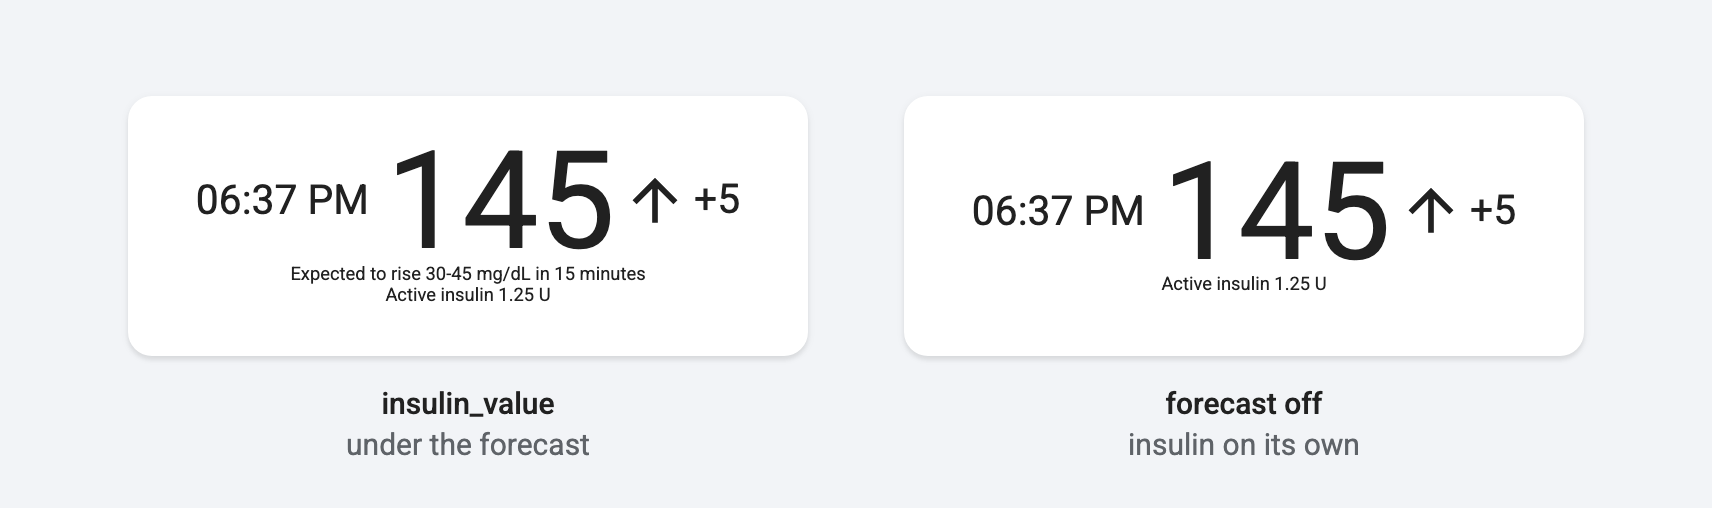
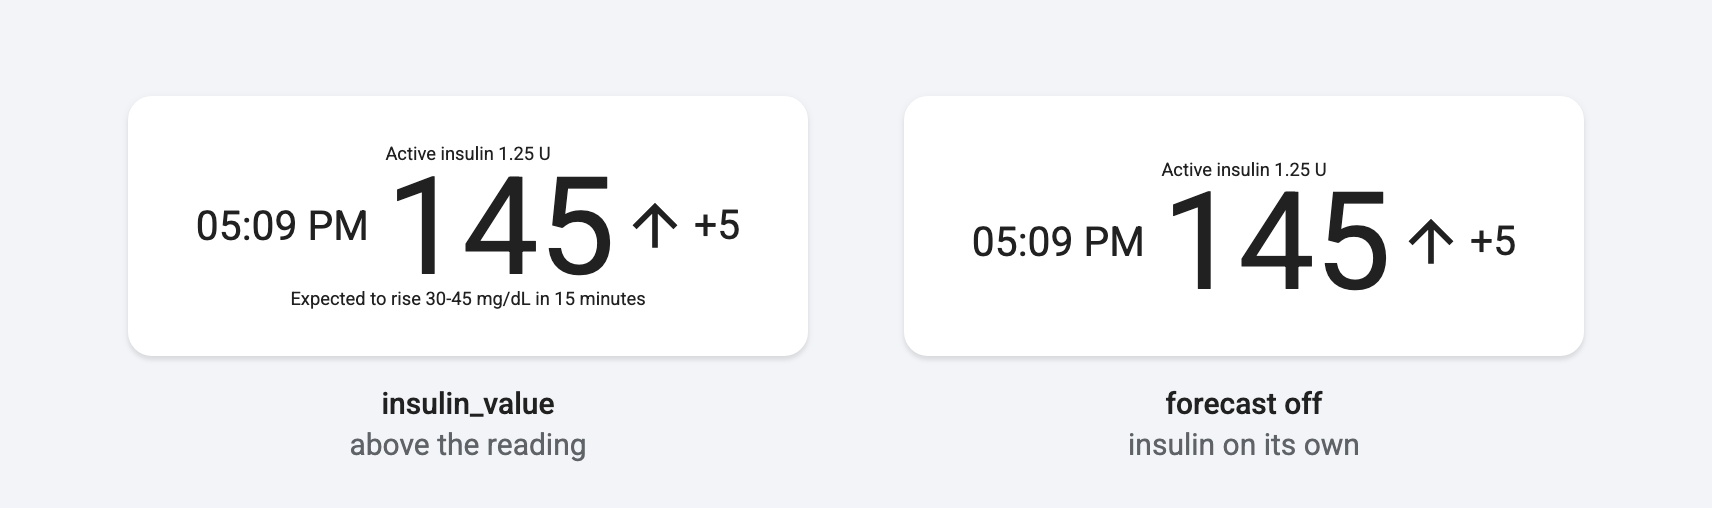
v0.17.0: move the active insulin line above the reading
Insulin is status rather than projection: what is on board now sits ahead
of the number the way the time does, while the delta and forecast stay
under it. No config change; the lone footnotes wrapper from v0.16.0 is
gone with the forecast back in its own shape.

Changed region(s): [[0.0929, 0.2953, 0.4334, 0.6201], [0.5572, 0.2953, 0.8978, 0.5906], [0.1857, 0.8563, 0.3405, 0.9154]]

diff --git a/src/sugartv-card-styles.js b/src/sugartv-card-styles.js
@@ -3,12 +3,13 @@ import { css } from 'lit';
 /*
  * Layout
  * ------
- * One markup, two orientations. The container holds the time, the value, a
- * .tail carrying the trend and delta, and the footnotes (the forecast line
- * and, when configured, active insulin). Wide boxes lay them out as a row
- * with the footnotes wrapped onto their own block; tall and square boxes stack
- * them into a column. Nothing here is configurable: the card reads the shape
- * it was given and picks the orientation that fills it.
+ * One markup, two orientations. The container holds, from the top: the
+ * active insulin line (when configured), the time, the value, a .tail carrying
+ * the trend and delta, and the forecast line under the reading. Wide boxes lay
+ * the reading out as a row with the forecast wrapped onto its own line; tall
+ * and square boxes stack them into a column. Nothing here is configurable:
+ * the card reads the shape it was given and picks the orientation that fills
+ * it.
  *
  * Optical geometry
  * ----------------
@@ -204,30 +205,12 @@ export const cardStyles = css`
     }
 
     /*
-     * The lines under the reading: the forecast and, when configured, the
-     * active insulin. One block with a rhythm of its own, tighter than the
-     * container's gap, because two lines at the container's gap read as two
-     * separate announcements while these are one level of detail -- the same
-     * licence the stacked trend and delta take in the column layout.
-     *
-     * The block carries the descent clearance, not the forecast line itself,
-     * so whichever line lands directly under the reading clears its
-     * descender: with insulin configured and the forecast off, the insulin
-     * line is the one sitting under the number. The clearance itself is
-     * measured from the rendered glyphs: .value is trimmed to the alphabetic
-     * baseline so its box ends where the digits do, but a decimal comma hangs
-     * below that and would otherwise print on this line. --value-descent is
-     * zero whenever the reading has no descender, which is every mg/dL card.
+     * The forecast, under the reading. The descent clearance is measured
+     * from the rendered glyphs: .value is trimmed to the alphabetic baseline
+     * so its box ends where the digits do, but a decimal comma hangs below
+     * that and would otherwise print on this line. --value-descent is zero
+     * whenever the reading has no descender, which is every mg/dL card.
      */
-    .footnotes {
-        display: flex;
-        flex-direction: column;
-        align-items: center;
-        gap: calc(1.2 * var(--u));
-        margin-top: calc(var(--value-descent, 0) * var(--u));
-        max-width: 100%;
-    }
-
     /*
      * No opacity of its own, deliberately. It used to carry 0.7 to read as
      * secondary, but font size already says that -- 2.7u against the reading's
@@ -237,7 +220,20 @@ export const cardStyles = css`
      * zones it fell to 2.6:1 even on a current reading. Hierarchy by size,
      * contrast left alone.
      */
-    .prediction,
+    .prediction {
+        font-size: calc(2.7 * var(--u));
+        margin-top: calc(var(--value-descent, 0) * var(--u));
+        max-width: 100%;
+        text-align: center;
+    }
+
+    /*
+     * Active insulin, above the reading. Above, not under the forecast,
+     * because it is status rather than projection: what is on board now,
+     * ahead of the number the way the time is, while everything derived from
+     * the trend (delta, forecast) stays below it. Same size as the forecast,
+     * and like it, no colour and no opacity of its own.
+     */
     .insulin {
         font-size: calc(2.7 * var(--u));
         max-width: 100%;

diff --git a/src/sugartv-card.js b/src/sugartv-card.js
@@ -898,11 +898,11 @@ class SugarTvCard extends LitElement {
     }
 
     /*
-     * The line under the forecast: "Active insulin 1.25 U", phrased by the
-     * same translation table as the forecast above it. Two decimals fixed, so
-     * the line holds a steady width across readings the way the reading does;
-     * insulin doses move in halves and quarters and a whole unit would hide
-     * exactly the detail the line exists to show.
+     * The line above the reading: "Active insulin 1.25 U", phrased by the
+     * same translation table as the forecast. Two decimals fixed, so the line
+     * holds a steady width across readings the way the reading does; insulin
+     * doses move in halves and quarters and a whole unit would hide exactly
+     * the detail the line exists to show.
      */
     _insulinText() {
         const { insulin } = this._data;
@@ -1664,6 +1664,11 @@ class SugarTvCard extends LitElement {
                 aria-label="${ariaLabel}"
             >
                 <div class="container">
+                    ${
+                        insulin
+                            ? html`<div class="insulin">${insulin}</div>`
+                            : ''
+                    }
                     <div class="line">
                         <div class="time">
                             ${this._formatTime(reading_time)}
@@ -1684,28 +1689,9 @@ class SugarTvCard extends LitElement {
                         </div>
                     </div>
                     ${
-                        insulin || (showPrediction && prediction)
+                        showPrediction && prediction
                             ? html`
-                                  <div class="footnotes">
-                                      ${
-                                          showPrediction && prediction
-                                              ? html`
-                                                    <div class="prediction">
-                                                        ${prediction}
-                                                    </div>
-                                                `
-                                              : ''
-                                      }
-                                      ${
-                                          insulin
-                                              ? html`
-                                                    <div class="insulin">
-                                                        ${insulin}
-                                                    </div>
-                                                `
-                                              : ''
-                                      }
-                                  </div>
+                                  <div class="prediction">${prediction}</div>
                               `
                             : ''
                     }

diff --git a/test/sugartv-card.test.js b/test/sugartv-card.test.js
@@ -1896,7 +1896,7 @@ describe('SugarTvCard', () => {
 
     // ── _formatValue ────────────────────────────────────────────────
     /*
-     * Active insulin (#109): an optional entity, a line under the forecast,
+     * Active insulin (#109): an optional entity, a line above the reading,
      * and nothing at all when the entity is absent or unreadable. The card
      * never guesses at an insulin entity, so every "hidden" case below is the
      * same code path a user without a pump takes.
@@ -2006,7 +2006,7 @@ describe('SugarTvCard', () => {
             expect(card._insulinText()).toBe('Active insulin -0.35 U');
         });
 
-        it('draws the line under the forecast, inside one footnotes block', () => {
+        it('draws the line above the reading, the forecast below it', () => {
             const card = insulinCard(
                 {},
                 '1.25',
@@ -2026,22 +2026,25 @@ describe('SugarTvCard', () => {
             card._updateData();
             const markup = card.render();
 
-            expect(markup).toContain('class="footnotes"');
+            // Above the reading line, not inside anything under it.
+            expect(markup.indexOf('class="insulin"')).toBeLessThan(
+                markup.indexOf('class="line"'),
+            );
             expect(markup).toContain('class="prediction"');
-            expect(markup).toContain('class="insulin"');
-            expect(markup.indexOf('prediction')).toBeLessThan(
-                markup.indexOf('insulin"'),
+            expect(markup.indexOf('class="line"')).toBeLessThan(
+                markup.indexOf('class="prediction"'),
             );
         });
 
-        it('draws no footnotes block when there is nothing under the reading', () => {
+        it('draws nothing under the reading when the forecast is off', () => {
             const card = insulinCard(
                 { insulin_value: undefined, show_prediction: false },
                 '1.25',
             );
             const markup = card.render();
 
-            expect(markup).not.toContain('footnotes');
+            expect(markup).not.toContain('class="prediction"');
+            expect(markup).not.toContain('class="insulin"');
         });
 
         it('announces the line to the screen reader', () => {

diff --git a/test/styles.test.js b/test/styles.test.js
@@ -112,9 +112,9 @@ describe('the age fade in the stylesheet', () => {
      * fades twice on a stale card. The forecast line used to carry 0.7, which
      * put it at 2.1:1 there -- below every threshold at any size. Hierarchy on
      * that line is font size now, and this pins it: re-adding an opacity here
-     * would silently reintroduce the compounding. The insulin line and the
-     * footnotes block that wraps them sit on the same spot of the card and
-     * would compound just the same, so they are held to the identical rule.
+     * would silently reintroduce the compounding. The insulin line sits above
+     * the reading and the forecast below it, but both are secondary lines that
+     * would compound just the same, so both are held to the identical rule.
      */
     it('leaves the secondary lines without an opacity to compound', () => {
         /*

diff --git a/demo/shot.html b/demo/shot.html
@@ -101,7 +101,7 @@
              *   rel    1 to show the age in place of the clock (relative_time)
              *   dim    1 to enable dim_by_age
              *   pred   0 to drop the forecast line
-             *   iob    units of active insulin to show under the forecast
+             *   iob    units of active insulin to show above the reading
              *          (omitted: no insulin entity, no line)
              *   loc    the card's locale (default en-US)
              *   label  caption under the card; <b> is allowed

diff --git a/demo/shots.py b/demo/shots.py
@@ -135,7 +135,7 @@ FIGURES = {
                 145,
                 "rising",
                 iob=1.25,
-                label="<b>insulin_value</b><br>under the forecast",
+                label="<b>insulin_value</b><br>above the reading",
             ),
             spec(
                 "340x130",

diff --git a/README.md b/README.md
@@ -107,7 +107,7 @@ for example, builds the id from your account username, so it is
 | `glucose_value`       | entity id | required             | The sensor holding the reading. Everything else is derived from it.               |
 | `glucose_trend`       | entity id | auto-detected        | Point at the trend entity when the card cannot find it. YAML only.                |
 | `timestamp_attribute` | string    | auto-detected        | Attribute holding the measurement time, for an integration not listed above.      |
-| `insulin_value`       | entity id | none                 | An active insulin (IOB) sensor, drawn as a second line under the forecast.        |
+| `insulin_value`       | entity id | none                 | An active insulin (IOB) sensor, drawn as a line above the reading.                |
 | `show_prediction`     | boolean   | `true`               | The line of text under the reading.                                               |
 | `relative_time`       | boolean   | `false`              | Show the reading's age ("14 min ago") in place of the clock.                      |
 | `dim_by_age`          | boolean   | `false`              | Fade the card once a poll has been missed, ahead of the stale fade.               |
@@ -169,9 +169,12 @@ Carelink's spellings onto these.
 
 ### Active insulin
 
-Point the card at an insulin sensor and it draws a second line under the
-forecast: "Active insulin 1.25 U", phrased in the card's language like
-everything else on it.
+Point the card at an insulin sensor and it draws a line above the reading:
+"Active insulin 1.25 U", phrased in the card's language like everything else
+on it. Above, not under the forecast, because it is status rather than
+projection: what is on board now, ahead of the number the way the time is,
+while everything derived from the trend (the delta, the forecast) stays
+below.
 
 ![The insulin line with the forecast on, and on its own](sugartv-card-insulin.png)
 
